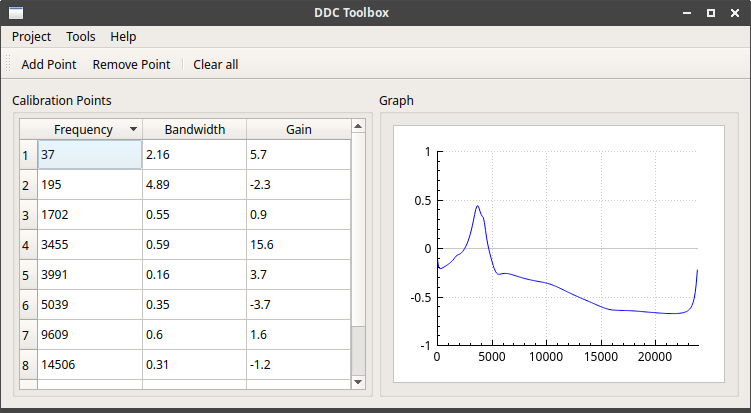
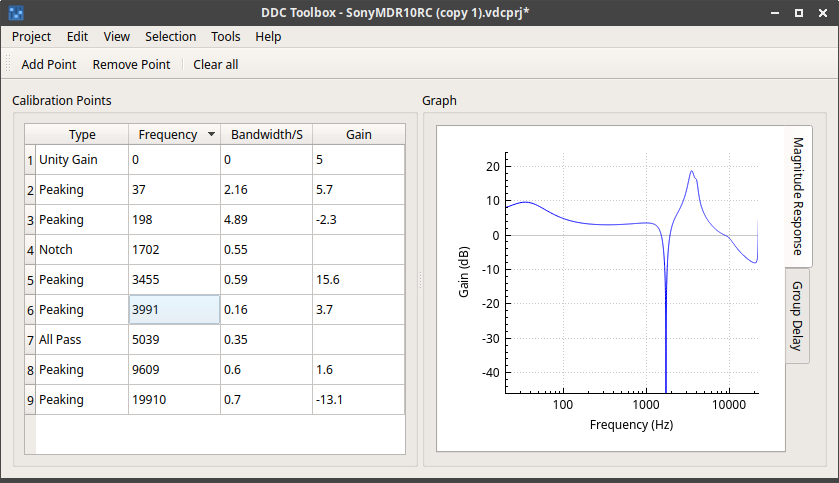
Fix typo causing the combobox to display unity gain incorrectly 1. Fix typo (table delegate) 2. Update HTML files with notes and credits 3. Update Screenshot

diff --git a/html/help.html b/html/help.html
@@ -4,6 +4,8 @@ p, li { white-space: pre-wrap; }
 </style></head><body style=" font-family:'Noto Sans'; font-size:9pt; font-weight:400; font-style:normal;">
 <p style=" margin-top:0px; margin-bottom:0px; margin-left:0px; margin-right:0px; -qt-block-indent:0; text-indent:0px;"><span style=" font-size:10pt; font-weight:600; text-decoration: underline;">Notes</span>    </p>
 <p style="-qt-paragraph-type:empty; margin-top:0px; margin-bottom:0px; margin-left:0px; margin-right:0px; -qt-block-indent:0; text-indent:0px;"><br /></p>
-<p style=" margin-top:0px; margin-bottom:0px; margin-left:0px; margin-right:0px; -qt-block-indent:0; text-indent:0px;"><span style=" font-weight:600;">DDC project files using filtertypes other than '</span><span style=" font-weight:600; font-style:italic;">Peaking'</span><span style=" font-weight:600;"> generated by this version are not compatible with Viper's Toolbox 2.0.</span></p>
-<p style=" margin-top:0px; margin-bottom:0px; margin-left:0px; margin-right:0px; -qt-block-indent:0; text-indent:0px;">This is because these filtertypes are not supported by the original version of Viper's Toolbox.</p>
-<p style=" margin-top:0px; margin-bottom:0px; margin-left:0px; margin-right:0px; -qt-block-indent:0; text-indent:0px;">Of course you can still generate *.vdcprj files that are compatible with this older version. To do that, just make sure that all filtertypes are set the '<span style=" font-style:italic;">Peaking' </span>or use the option called 'Project File v1.0' in the 'Export' submenu. Keep in mind that if you use the export option, the filtertypes of all calibration points are set to '<span style=" font-style:italic;">Peaking</span>' by force.</p></body></html>
+<p style=" margin-top:0px; margin-bottom:0px; margin-left:0px; margin-right:0px; -qt-block-indent:0; text-indent:0px;"><span style=" font-weight:600;">DDC project files using IIR filter types other than '</span><span style=" font-weight:600; font-style:italic;">Peaking'</span><span style=" font-weight:600;"> generated by this version are not compatible with Viper's Toolbox 2.0.</span></p>
+<p style=" margin-top:0px; margin-bottom:0px; margin-left:0px; margin-right:0px; -qt-block-indent:0; text-indent:0px;">This is because these IIR filter types are not supported by the original version of Viper's Toolbox.</p>
+<p style=" margin-top:0px; margin-bottom:0px; margin-left:0px; margin-right:0px; -qt-block-indent:0; text-indent:0px;">Of course you can still generate *.vdcprj files that are compatible with this older version. To do that, just make sure that all filter types are set the '<span style=" font-style:italic;">Peaking' </span>or use the option called 'Project File v1.0' in the 'Export' submenu. Keep in mind that if you use the export option, the filter types of all calibration points are set to '<span style=" font-style:italic;">Peaking</span>' by force.</p>
+<p style="-qt-paragraph-type:empty; margin-top:0px; margin-bottom:0px; margin-left:0px; margin-right:0px; -qt-block-indent:0; text-indent:0px;"><br /></p>
+<p style=" margin-top:0px; margin-bottom:0px; margin-left:0px; margin-right:0px; -qt-block-indent:0; text-indent:0px;"><span style=" font-weight:600;">The VDC importer is not guarenteed to support VDCs, that have been built using IIR filters other than '</span><span style=" font-weight:600; font-style:italic;">Peaking</span><span style=" font-weight:600;">' very well.</span></p></body></html>

diff --git a/html/introduction.html b/html/introduction.html
@@ -4,6 +4,6 @@ p, li { white-space: pre-wrap; }
 </style></head><body style=" font-family:'Noto Sans'; font-size:9pt; font-weight:400; font-style:normal;">
 <p style=" margin-top:0px; margin-bottom:0px; margin-left:0px; margin-right:0px; -qt-block-indent:0; text-indent:0px;"><span style=" font-size:10pt; font-weight:600; text-decoration: underline;">About</span></p>
 <p style=" margin-top:12px; margin-bottom:12px; margin-left:0px; margin-right:0px; -qt-block-indent:0; text-indent:0px;">This is a rewrite of the Windows version of &quot;ViPERs Toolbox 2.0 (C#)&quot; in C++ using Qt.</p>
-<p style=" margin-top:12px; margin-bottom:12px; margin-left:0px; margin-right:0px; -qt-block-indent:0; text-indent:0px;">Written/ported by <span style="color:#007af4;">ThePBone</span></p>
-<p style=" margin-top:12px; margin-bottom:12px; margin-left:0px; margin-right:0px; -qt-block-indent:0; text-indent:0px;">VDC Importer (vdc-to-vdcprj) by <span style="color:#007af4;">James Fung</span> (@James34602)</p>
-<p style=" margin-top:12px; margin-bottom:12px; margin-left:0px; margin-right:0px; -qt-block-indent:0; text-indent:0px;">Tested and built on Linux, but it should compile on other OSes as well.</p></body></html>
+<p style=" margin-top:12px; margin-bottom:12px; margin-left:0px; margin-right:0px; -qt-block-indent:0; text-indent:0px;">Written/ported by <span style=" color:#007af4;">ThePBone</span></p>
+<p style=" margin-top:12px; margin-bottom:12px; margin-left:0px; margin-right:0px; -qt-block-indent:0; text-indent:0px;">VDC Importer, group delay plot, unity gain filter by <span style=" color:#007af4;">James Fung</span> (@James34602)</p>
+<p style=" margin-top:12px; margin-bottom:12px; margin-left:0px; margin-right:0px; -qt-block-indent:0; text-indent:0px;">Tested and built on Linux and Windows, but it should compile on other OSes as well.</p></body></html>

diff --git a/html/keycombos.html b/html/keycombos.html
@@ -27,4 +27,6 @@ p, li { white-space: pre-wrap; }
 <p style=" margin-top:0px; margin-bottom:0px; margin-left:0px; margin-right:0px; -qt-block-indent:0; text-indent:0px;"><span style=" text-decoration: underline;">Help:</span></p>
 <p style=" margin-top:0px; margin-bottom:0px; margin-left:0px; margin-right:0px; -qt-block-indent:0; text-indent:0px;"><span style=" color:#007af4;">F1</span>: Shortcuts</p>
 <p style="-qt-paragraph-type:empty; margin-top:0px; margin-bottom:0px; margin-left:0px; margin-right:0px; -qt-block-indent:0; text-indent:0px;"><br /></p>
-<p style=" margin-top:0px; margin-bottom:0px; margin-left:0px; margin-right:0px; -qt-block-indent:0; text-indent:0px;">Note: Double-click a cell to edit it.</p></body></html>
+<p style=" margin-top:0px; margin-bottom:0px; margin-left:0px; margin-right:0px; -qt-block-indent:0; text-indent:0px;"><span style=" text-decoration: underline;">Notes:</span></p>
+<p style=" margin-top:0px; margin-bottom:0px; margin-left:0px; margin-right:0px; -qt-block-indent:0; text-indent:0px;">- Double-click a cell to edit it</p>
+<p style=" margin-top:0px; margin-bottom:0px; margin-left:0px; margin-right:0px; -qt-block-indent:0; text-indent:0px;">- Rightclick one of the plots to enable movement/zoom</p></body></html>

diff --git a/mainwindow.h b/mainwindow.h
@@ -153,7 +153,7 @@ public:
             cb->addItem(QString("All Pass"));
             cb->addItem(QString("Low Shelf"));
             cb->addItem(QString("High Shelf"));
-            cb->addItem(QString("Unity gain"));
+            cb->addItem(QString("Unity Gain"));
             return cb;
         }
         else if (index.column()==2&&sp) {
